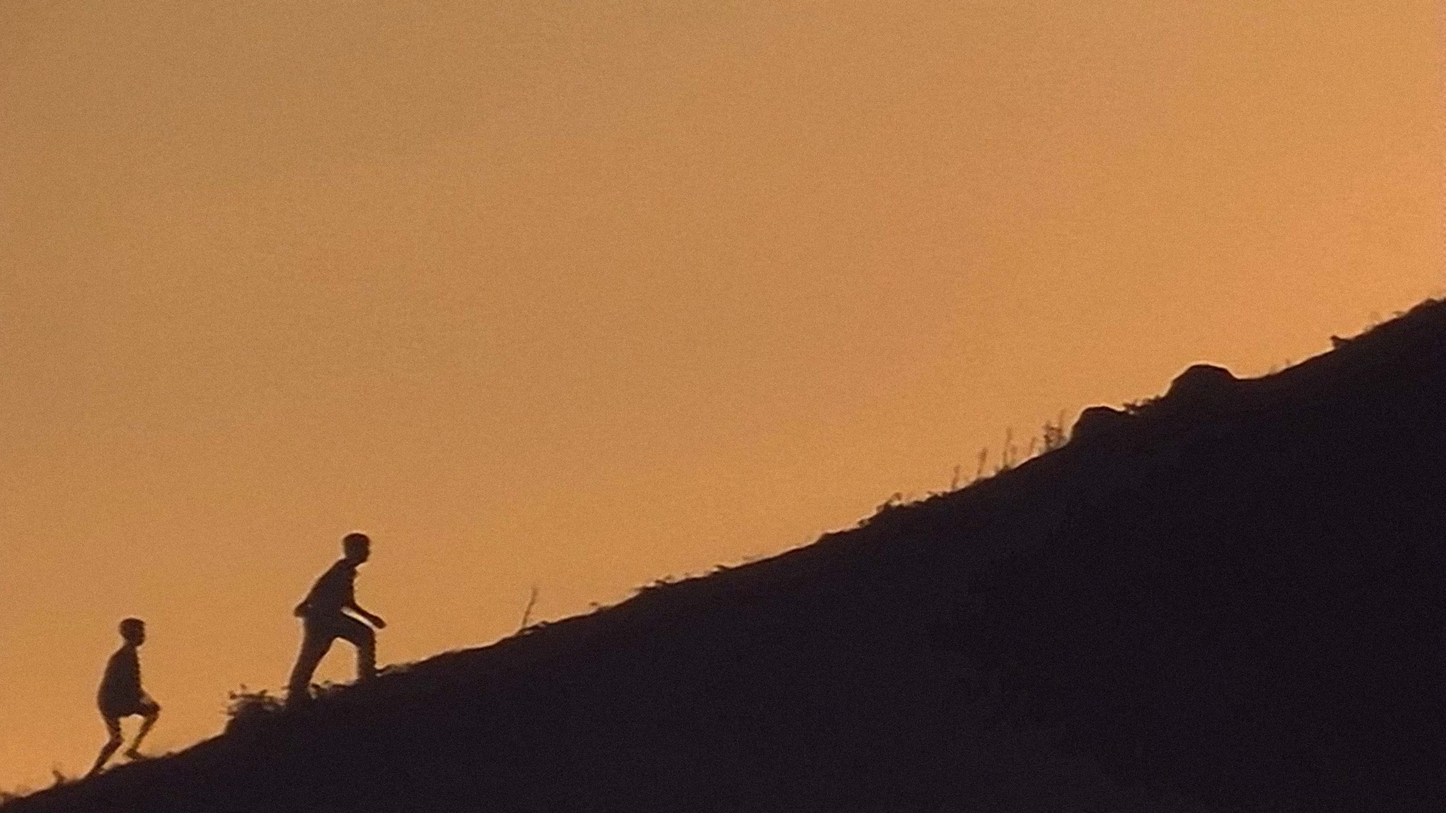
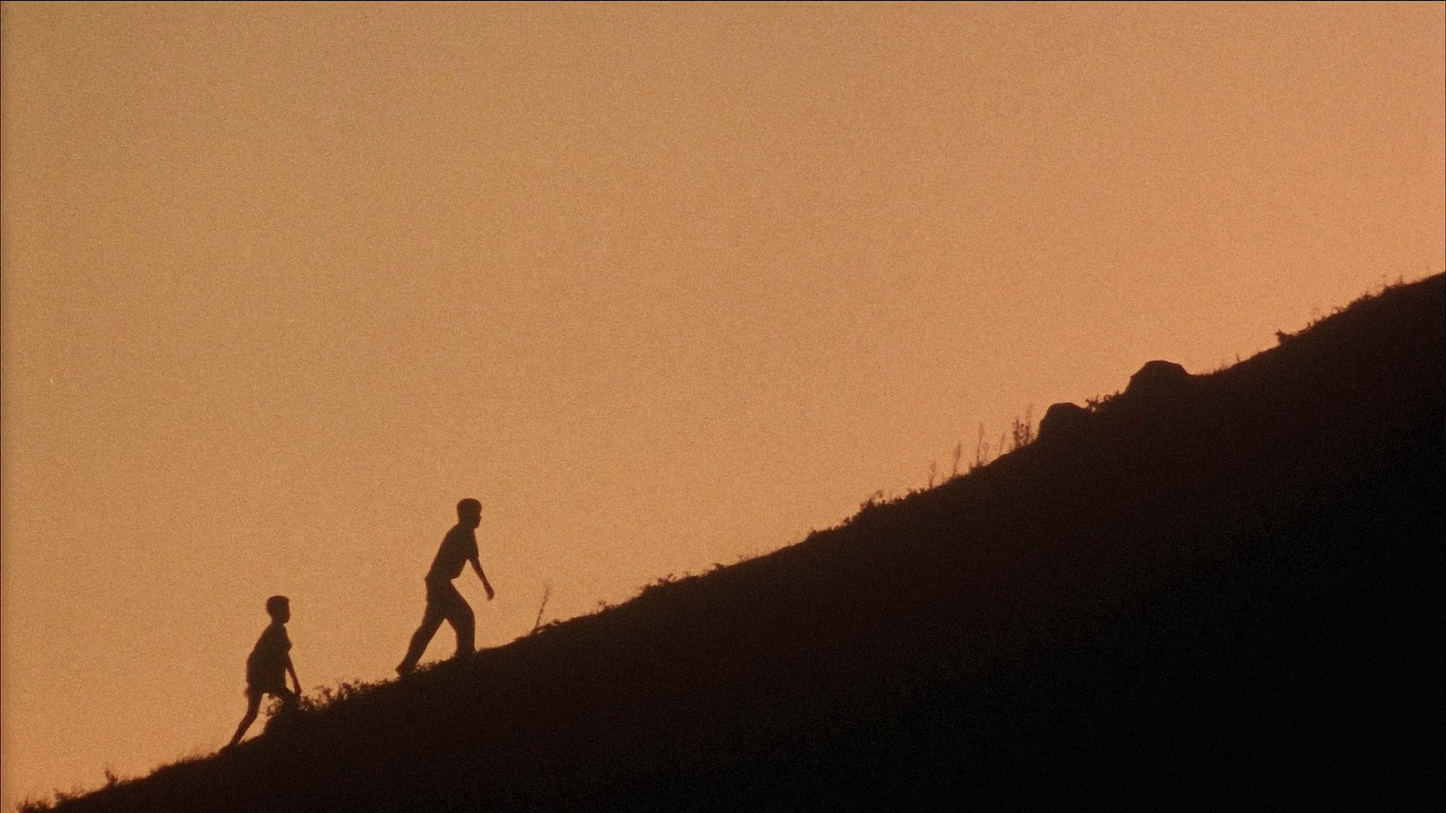
vid: 1080p remasters of Realise and Livin on a Prayer

Changed region(s): [[0.0, 0.0, 1.0, 1.0], [0.4375, 0.4032, 0.5, 0.4343], [0.5312, 0.3102, 0.5625, 0.3412]]

diff --git a/src/vids/032-Realise.md b/src/vids/032-Realise.md
@@ -12,6 +12,8 @@ artist: 'The Flaming Lips'
 song_info_url: 'http://en.wikipedia.org/wiki/Do_You_Realize%3F%3F'
 downloads:
     - {url: AbsoluteDestiny-Realise-480p.m4v, title: '480p mp4', width: 848, height: 480, mimetype: video/mp4}
+    - {url: AbsoluteDestiny-Realise-720p.m4v, title: '720p mp4 (remaster)', width: 848, height: 480, mimetype: video/mp4}
+    - {url: AbsoluteDestiny-Realise-1080p.m4v, title: '1080p mp4 (remaster)', width: 848, height: 480, mimetype: video/mp4}
 srt: null
 sd_stream: AbsoluteDestiny-Realise-480p.m4v
 svg: AbsoluteDestiny-Realise.svg
@@ -21,7 +23,7 @@ tags:
     - myfaves
     - liveaction
 vid_id: '032'
-mux: Jxay8M00JyUqH9hHj1Ywzpu4PCxHo3FEL
+mux: jrpgdIADOtkaQ1C8ryS01iUgr45q7whZh
 yt_id: 0-5XTSD7HyQ
 
 ---

diff --git a/src/vids/050-Livin-On-A-Prayer.md b/src/vids/050-Livin-On-A-Prayer.md
@@ -14,6 +14,7 @@ song_info_url: 'https://en.wikipedia.org/wiki/Livin%27_on_a_Prayer'
 downloads:
     - {url: AbsoluteDestiny-Livin_On_A_Prayer-480p.m4v, title: '480p mp4', width: 848, height: 464, mimetype: video/mp4}
     - {url: AbsoluteDestiny-Livin_On_A_Prayer-720p.m4v, title: '720p mp4', width: 1280, height: 688, mimetype: video/mp4}
+    - {url: AbsoluteDestiny-Livin_On_A_Prayer-1280p.m4v, title: '1280p mp4', width: 1280, height: 688, mimetype: video/mp4}
 srt: null
 sd_stream: AbsoluteDestiny-Livin_On_A_Prayer-480p.m4v
 svg: AbsoluteDestiny-Livin_On_A_Prayer.svg
@@ -25,7 +26,7 @@ tags:
     - gift
     - liveaction
 vid_id: '050'
-mux: RZlGXFwPPg6p56iyyLOdV6jnTpnVHjT8
+mux: jff1DwiszfPtpvR01X01ZayyRT7L3B1si6
 yt_id: 04qilZNarOo
 
 ---
